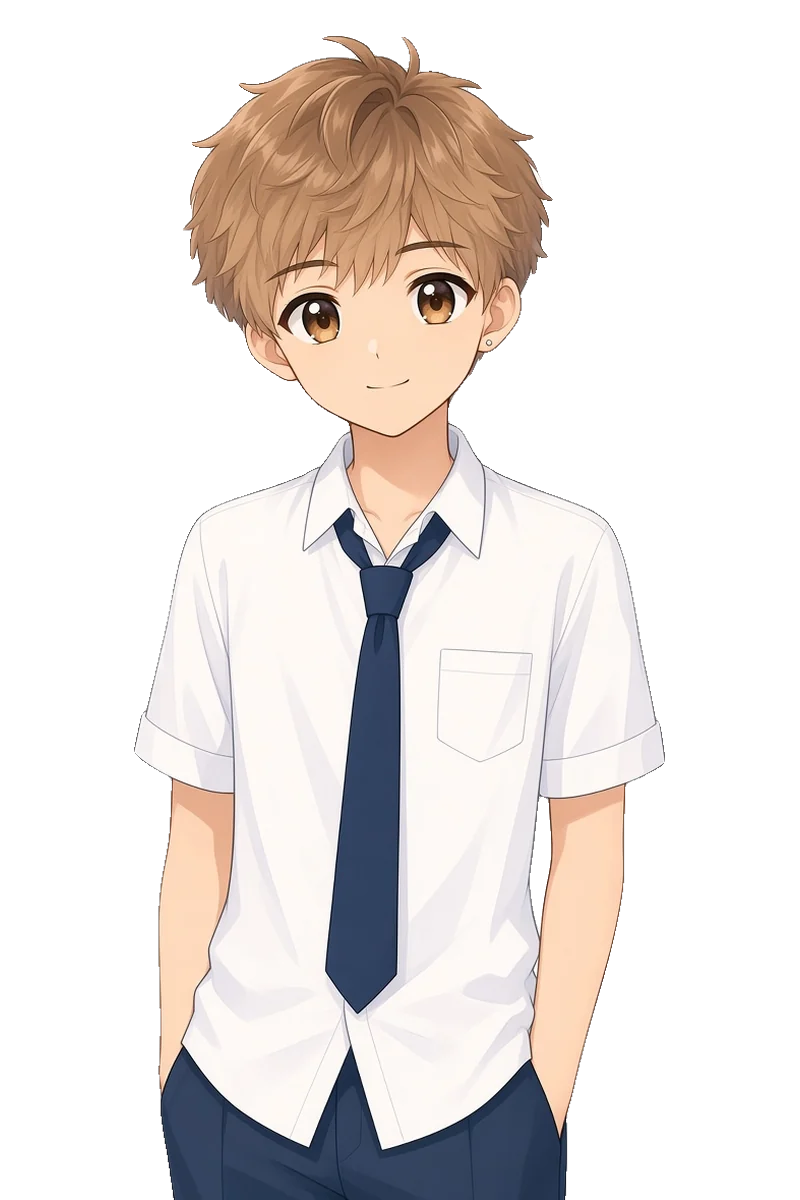
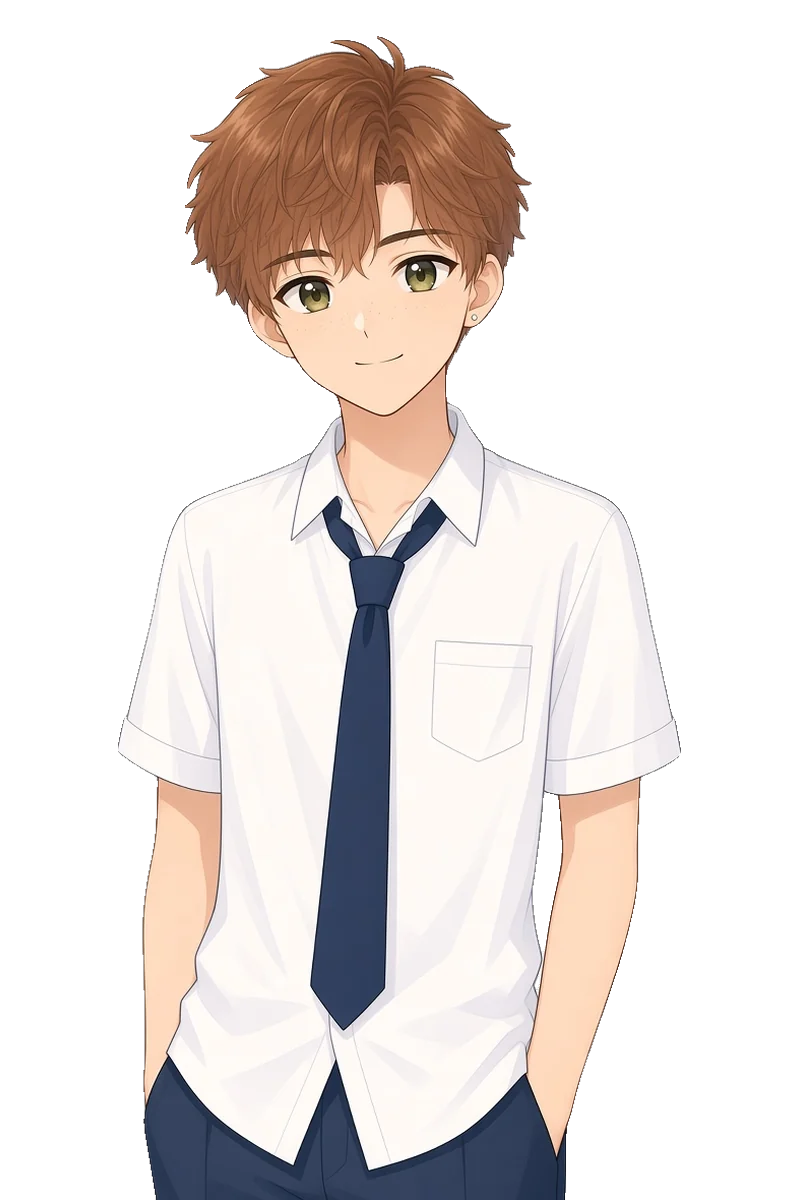
Add international cast supplement (Ava route, Inès, Mateo, Ollie), re-ethnicise Ryan/Sam, v4 sprites + QC sheet

diff --git a/docs/CAST_INTERNATIONAL.md b/docs/CAST_INTERNATIONAL.md
@@ -1,0 +1,394 @@
+# sim4love: International Cast Supplement (v4)
+
+> Supplement to `docs/CAST_BIBLE.md`, using the same entry format and the same systems (radar axes, values-fit,
+> flaw tags, neglect 0–3, 📖 story / 👆 player-choice beats). **Phase 1 = design + art only.** Nothing here is wired
+> into `js/data/cast.js`, `js/chapters/*`, `js/sprites.js` or `tests/` yet; that is Phase 2.
+
+## 0. Why this supplement exists, and the rules it follows
+
+The owner asked for **more characters and plot, international "skins" (Europe, America and beyond), lively and
+different personalities, and different speaking styles, so the cast is not only Singapore-local.**
+
+Rules for this pass:
+
+1. **Additive.** The multiracial Singapore core (Chinese, Malay, Indian, Eurasian, Peranakan, migrant-worker
+   characters) stays exactly as written in `CAST_BIBLE.md`. Singapore is still home; the new cast are people who
+   *live in* Singapore, which is true to the city (around 30% of residents are non-citizens).
+2. **Four new characters** + **two re-ethnicised minor characters** (ids kept, so no save or code breaks).
+3. **Every new character has a distinct English voice**, carried into Chinese through register, sentence rhythm
+   and a few signature words, not through broken grammar or accent jokes.
+4. **Never preach, never mock a culture.** Every cross-cultural beat is a *difference*, not a ranking. Where a
+   Think Deeper card appears it gives at least two reasonable views.
+5. Same content limits as the bible: modest dress, nothing physical beyond a hug, Ch13/Ch18 non-explicit.
+6. Adults are never framed as romantic options for minors. Ollie (26) only appears with the player in public or
+   group settings.
+
+### 0.1 New cast count: why "9 + 15"
+
+| Before | After |
+|---|---|
+| 8 heroines (6 school-era routes, Natalie's late route, Rae's bond track) + 12 others = **20** | **9 heroines** (+ Ava, a full school-era route) + **15 others** (+ Inès, Mateo, Ollie) = **24** |
+
+Ava is the **7th school-era route** (Ch1–Ch8 meet and build, lock at the end of Ch8, Ch9–Ch20 route content and
+endings). Inès, Mateo and Ollie are friend / rival / mentor characters with arcs but no route. Total main cast
+becomes 24; `CAST_BIBLE.md §1` keeps its 20-row table and Phase 2 adds rows 21–24 there with a pointer here.
+
+## 1. The new and changed cast at a glance
+
+| # | id | Name (EN / zh) | From | Age at Ch1 | Role | Heroine | Status |
+|---|---|---|---|---|---|---|---|
+| 21 | `ava` | Ava Mitchell / 艾娃·米切尔 | USA (Austin, Texas) | 16 | Expat transfer student, marine-bio and photography nerd | ✔ route | **new** |
+| 22 | `ines` | Inès Diallo / 伊内丝·迪亚洛 | France (Lyon), Senegalese-Breton family | 17 | Debate rival from the French international school | — | **new** |
+| 23 | `mateo` | Mateo Tan Rojas / 马特奥·陈·罗哈斯 | Colombia (Medellín) + Singapore | 16 | Poly student, futsal friend, later NS buddy | — | **new** |
+| 24 | `ollie` | Ollie Bennett / 奥利·贝内特 | UK (Leeds) | 26 | Sound engineer, CC guitar teacher, open-night host; passion mentor | — | **new** |
+| 19 | `ren` | Ryan Teo / 张瑞安 | Singapore (Chinese SG father, Irish mother) | 16 | Classmate, then NS section mate | — | **re-ethnicised** |
+| 20 | `saki` | Sam (Samantha) de Vries / 萨姆·德弗里斯 | Netherlands → Singapore since age 9 | 19 at Ch17 | Friend of friends, events crew | — | **re-ethnicised** |
+
+**New circle:** `intl` (international-school / expat / mixed-family network). Members: ava, ines, ollie (edge),
+mateo (bridge to `estate` via Haziq's futsal), saki (bridge to `work`). Gossip propagates inside `intl` like other
+circles (§5.5 of the bible).
+
+### 1.1 Voice matrix (so writers never blur them)
+
+| Character | EN register | Signature EN | zh register | Signature zh | Never does |
+|---|---|---|---|---|---|
+| Ava | Fast, warm, American teen; says the quiet part out loud | "Okay, real talk." · "Y'all." · "Lowkey…" · "I'm not gonna lie." | 直接、短句、感叹多 | "说真的。" · "超酷！" · "你们大家" | sarcasm aimed at people |
+| Inès | Precise, argumentative, French-inflected logic | "Bof." · "En fait…" · "Voilà." · "I find that…" | 论证式长句, 爱用"其实/所以", 夹法语 | "Bof，一般吧。" · "En fait，其实……" · "Voilà，就这样。" | raises her voice |
+| Mateo | Loud, affectionate, Spanglish | "¡Hermano!" · "Dios mío." · "¡Qué bueno!" · "Bro, trust." | 热情、叠词、夹西班牙语 | "兄弟！" · "Dios mío，天哪。" · "太好了太好了！" | stays angry overnight |
+| Ollie | Northern English understatement, dry | "Not bad, that." (= brilliant) · "Bit of a nightmare, to be honest." · "Cheers." | 冷幽默、轻描淡写 | "还行吧，这个。"（=很棒）· "说实话，有点头大。" | flirts with students |
+| Sam | Dutch directness, practical, warm | "Ja, no." · "That's not so handy." · "Gezellig!" · "Going Dutch is literally my name." | 直截了当、口头禅短 | "嗯，不。" · "这不太方便。" · "好温馨（gezellig）！" | sugar-coats |
+| Ryan | Singlish-first, quick banter (unchanged) | "Rate lah." · "Chill one." | 口语化新加坡华语 | "安啦。" | — |
+
+Chinese localisation note: the foreign words (*bof, voilà, hermano, gezellig*) stay in Latin script inside the zh
+line, the way bilingual teens actually text. Each first use gets a one-time glossary tooltip.
+
+---
+
+## 2. Heroine #9
+
+### 2.1 Ava Mitchell (`ava`) · heroine, route · **new**
+
+| | |
+|---|---|
+| Names | EN *Ava* / *Ava Mitchell* · zh *艾娃* / *艾娃·米切尔* |
+| Age | 16 at Ch1 (JC1, international-student intake at Bayview JC) |
+| Background | American, from Austin, Texas. Her dad is a semiconductor engineer on a 3-year posting; Singapore is her **4th country** (Texas → Shanghai → Dubai → Singapore). Mum is a remote UX designer. Lives in a condo near the East Coast. Chose a local JC over an international school "because I wanted to actually live here this time". |
+| Role | The bright new kid who befriends everyone in a week; the cross-cultural, long-distance heroine |
+| Personality | Sunny, curious, physically expressive, blunt, brave about new food and new people, secretly avoidant |
+| Passions | Marine biology (wants to study coral restoration) and film photography (a hand-me-down camera from her grandpa) |
+| Values | friends +2, learning +2, career +2, honesty +2, conflict +1 (says it straight), gifts 0, promises +1, spend +1, home −1, family 0 (loves hers, expects independence), lending 0, children 0, childEdu +1 |
+| Flaw tags | `one-foot-out` (Ch5, Ch14) · `blunt-without-context` (Ch2, Ch11) · `allowance-bubble` (Ch4, Ch11) · `fixes-not-listens` (Ch10, Ch16) |
+
+**First impression:** "Loud American. Main-character energy. Treats Singapore like a holiday."
+**Hidden:** her cheerfulness is a practised *new-kid routine*. She has done "first day" four times and learned to
+make friends fast and keep them shallow, because every friendship has ended at an airport. Her old group chats from
+Shanghai and Dubai have quietly gone silent and she has never told anyone it hurts.
+
+**Radar:** INT 65→80 · WRM 75→85 · CMP 45→80 · GEN 40→70 · GNR 55→75 · SEN 30→75 · FIT ?
+
+| Reveal | Trigger |
+|---|---|
+| WRM | 📖 Ch1: she photographs frangipani and gives you the print |
+| SEN | 👆 Ch5 Ubin night walk: ask "which goodbye was the worst?" instead of "which country was best?" |
+| GEN | 👆 Ch4: you explain giving part of your pay to Mum without judging her allowance |
+| CMP | 📖 Ch7: she quietly helps Rae after the screenshot incident |
+| INT | 👆 Ch6: ask about her coral-nursery project at the carnival science booth |
+| FIT | first partner talk (Ch8 dating norms, Ch11 family money) |
+
+**Appearances (all planned):** Ch1 short new scene; Ch2 group date; Ch4 café; Ch5 Ubin; Ch6 Carnival
+(Racial-Harmony booth); Ch7; Ch8 National Day confession; route Ch9–Ch20. Locations: Bayview JC, East Coast
+Park, her condo (Ch12), Uncle Ong's café, Pulau Ubin, Changi Airport (Ch16, Ch20).
+
+**Topics:** cross-cultural dating norms, consent norms, family money (allowance vs supporting parents),
+tipping/spending, long-distance when a family moves, expat-kid loneliness, scams targeting long-distance couples.
+
+#### Route beats
+
+| Arc beat | Ch | Kind | Change |
+|---|---|---|---|
+| New short scene "Frangipani": she's photographing the school's frangipani tree, asks you what it's called in Malay and Chinese (bunga kemboja / 鸡蛋花) | 1 | 📖 | meeting flag `avaMet`; WRM reveal |
+| Group date: "Can I hug you? I'm a hugger, you don't have to be." | 2 | 👆 | consent modelled by **her**; the player may say yes, no, or "high five instead"; all three are ✅ and give Trust +2 |
+| She tells Haziq his food is "kinda weird" without context | 2 | 📖 | flaw `blunt-without-context` |
+| Café: she tips Uncle Ong in cash; he's confused (service charge + GST is already on the bill). She gets **$80/week** allowance and keeps it all; you give part of your pay to Mum | 4 | 📖 + 👆 | **Think Deeper card** "Allowance vs supporting parents": independence-first and family-first both shown as reasonable; `allowance-bubble` flagged |
+| Ubin night: "I've done the new-kid thing four times. I'm really good at the first month." | 5 | 📖 | `one-foot-out` revealed |
+| Carnival Racial Harmony booth: she wants to wear a cheongsam "for fun"; Hanis invites her to try a baju kurung *properly*, and she asks what it means first | 6 | 👆 | appreciation vs costume; she wears only what she's invited to wear; CMP +3 if you introduced her |
+| Perfect Instagram, empty old chats | 7 | 📖 | expat-kid loneliness; SEN path opens |
+| National Day confession. She: "So… are we dating? Like, *dating* dating? Where I'm from you go on dates *before* you decide." | 8 | 👆 | dating-norms talk: "what are we" conversation; **route lock** |
+| Splitting the bill: she wants 50/50 every time, you were raised to "treat" | 9 | 👆 | no wrong answer; agree a system together → Trust +4 |
+| Lucas, an old friend from Dubai, visits and she hugs him at the airport | 10 | 👆 | jealousy lesson: hugs are culture, not signals; ask, don't accuse; `fixes-not-listens` shows when *you* are upset |
+| First fight: "Why do you even give your parents money? They're adults." | 11 | 📖 + 👆 | family-money clash; repair = both explain the *why*, not who's right |
+| Friendsgiving at her condo: she cooks a Texas brisket, you bring Ah Ma's dish | 12 | 📖 | families meet; her dad's "Call me Mike" vs your Mum's "Uncle/Auntie" formality, played warmly |
+| Health class: she compares her US health class (consent unit) with the local CCE programme | 13 | 📖 | consent and sexual-health facts, non-explicit; both systems shown with strengths |
+| Her dad's company moves him to **Seattle** after A-levels; she pulls back | 14 | 📖 | `one-foot-out` peaks: "Easier if we end it now, right?" |
+| You ask her to stay in it, or you let her go kindly | 14 | 👆 | both valid; Trust check feeds Ch14-5 split branch |
+| Dream: marine science at a California university vs staying for NUS | 15 | 👆 | support her dream without making yourself the reason she stays |
+| Long-distance begins: Changi goodbye; 15-hour time difference | 16 | 📖 | LDR mechanic: weekly "call slot" choice |
+| Video-call chapter: missed calls, a time-zone spreadsheet she made | 17 | 👆 | "Ask, don't assume" applied to distance |
+| The long talk (18+, non-explicit): family independence expectations, future country, money | 18 | 👆 | values-fit settles |
+| Fake "cheap flight" scam targeting long-distance couples ($450 for a $1,300 ticket via a Telegram agent) | 19 | 👆 | ScamShield fact card; you check the airline site together on a call |
+| Finale | 20 | — | ending select |
+
+#### Endings
+
+- **`true_ava` "Two Time Zones"** (Trust ≥ 70, values-fit ≥ 60, honest Ch14 talk, Ch19 scam avoided together):
+  she comes back for the NUS exchange semester; final CG at the East Coast frangipani tree with both of you
+  holding the same old camera.
+- **`normal_ava`**: you stay together long-distance, still working out the "what next"; hopeful and open.
+- **`kind_goodbye_ava` "See You Around"**: you part as friends. For the first time in five countries she says a
+  **proper goodbye** instead of fading out; she sends you a print every year. Framed as growth, not loss.
+
+**Neglect sensitivity: 2.** She's used to people drifting; two missed chapters and she starts "pre-leaving"
+(Trust −5, recap: *"Ava's been posting from places you weren't invited to."*).
+
+**Key judgements:** "She thinks she's better than us" (Ch4, unfair; struck by her apology to Uncle Ong) ·
+"She'll leave anyway" (Ch14, partly fair, and the route is about changing it).
+
+#### Speaking style samples
+
+| Moment | EN | zh |
+|---|---|---|
+| Ch1 hello | "Okay, real talk, what's this tree called? It smells like sunscreen and heaven." | "说真的，这棵树叫什么？闻起来像防晒霜加天堂。" |
+| Ch2 hug | "Can I hug you? I'm a hugger. You don't have to be. High fives are also elite." | "我能抱你一下吗？我很爱抱人。你不用勉强哦，击掌也超酷！" |
+| Ch11 fight | "I'm not gonna lie, I don't get it. They're adults. Why do *you* pay for *them*?" | "说真的，我不懂。他们是大人啊，为什么是你给他们钱？" |
+| Ch20 true | "Two time zones, one tree. Lowkey the best plan I've ever been part of." | "两个时区，一棵树。说真的，这是我参与过最棒的计划。" |
+
+#### Visual spec (v4, generated)
+
+Fair skin with light freckles, green eyes, wavy honey-blonde hair in a high ponytail with a mint scrunchie.
+Palette: mint, teal, sunshine yellow, sage.
+
+1. *Uniform* (`ava_uniform_*`): white blouse, teal ribbon, teal/navy plaid skirt, open mint hoodie, film camera.
+2. *Casual* (`ava_casual_*`): yellow tee with a tiny sea-turtle, denim shorts, open white linen overshirt, tote,
+   friendship bracelet.
+3. *Sport* (`ava_sport_*`): mint/white Ultimate jersey #7, mint headband, black shorts, flying disc.
+4. *Occasion* (`ava_occasion_*`): sage wrap midi dress, cream cardigan, hair down over one shoulder, pearl clip,
+   seashell pendant.
+
+Expressions per outfit: neutral, happy, sad, surprised, blush (20 sprites).
+
+---
+
+## 3. The three other new characters
+
+### 3.1 Inès Diallo (`ines`) · debate rival, then friend · **new**
+
+| | |
+|---|---|
+| Names | EN *Inès* / *Inès Diallo* · zh *伊内丝* / *伊内丝·迪亚洛* |
+| Age | 17 at Ch1 (Première at the French international school) |
+| Background | French, from Lyon. Father is Senegalese and Muslim (a hospital doctor on contract in SG), mother is Breton and Catholic (a French teacher). The family celebrates **Tabaski (Eid al-Adha) and Christmas**. Grandparents in Dakar and in Brittany. Second year in Singapore. |
+| Role | Preet's debate rival (Ch6 inter-school booth debate, Ch10-5 final); friend of Haziq through the mosque's youth tuition |
+| Personality | Brilliant, combative, theatrical, funny, generous with notes after she wins, terrible at losing |
+| Values | learning +2, honesty +2, conflict +2 (debates for fun), family +1, friends +1, career +2, spend 0, gifts −1, promises +1, home 0 |
+| Flaw tags | `contrarian` (Ch6) · `cutting-wit` (Ch6, Ch10) · `superior-defence` (Ch10) · `wont-admit-homesick` (Ch12) |
+
+**First impression:** "Arrogant. Thinks Singapore schools are factories."
+**Hidden:** she argues because in most rooms she's been *the only one*: the only Black girl in her Lyon class, the
+only Muslim at Breton Christmas, the only French student in a Singapore tuition centre. Winning the argument is
+armour. She misses her grandparents badly and never says so.
+
+**Radar:** INT 85→90 · WRM 40→70 · CMP 50→75 · GEN 35→65 · GNR 60→75 · SEN 45→70 · FIT —
+
+| Arc beat | Ch | Kind | Change |
+|---|---|---|---|
+| Ch6 booth debate: "En fait, you Singaporeans memorise, we argue." | 6 | 📖 | `contrarian`, `cutting-wit`; Preet beats her on the rebuttal |
+| You call the generalisation out *without* mocking France back | 6 | 👆 | Trust +4; she remembers |
+| Ch8 Think Deeper "No DTR?": in France you're often together without a formal "will you be my girlfriend"; vs the asked-out norm | 8 | 📖 | dating-norms card, balanced |
+| Ch10-5 final, she loses to Preet and apologises for "you memorise" | 10 | 📖 + 👆 | `superior-defence` → growing; rival → friend with Preet |
+| Frank consent talk at the Ch13 peer-education booth: "Silence is not a yes. Voilà." | 13 | 📖 | consent norms delivered by a peer, not a lecture |
+| Ch12 her family's Tabaski lunch then Christmas Eve, same month; she cries on a video call with her Dakar grandmother | 12 | 👆 | mixed-faith family; `wont-admit-homesick` revealed; just sit with her (SEN reveal) |
+| Ch20 she sends Preet her old debate notes before leaving for Sciences Po | 20 | 📖 | epilogue |
+
+**Neglect sensitivity: 1.** **Circles:** intl, school (via debate). **Chapters:** 6, 8, 10, 10-5, 12, 13, 20.
+
+| Moment | EN | zh |
+|---|---|---|
+| Debate | "Bof. I find that your argument is a feeling wearing a tie." | "Bof，我觉得你的论点只是一种穿了领带的情绪。" |
+| Apology | "En fait… I was wrong about you all. It's annoying. Voilà." | "En fait，其实……我之前看错你们了。真烦。Voilà，就这样。" |
+
+**Visual spec (v4):** deep brown skin, coily black high puff, dark brown eyes, gold hoops. Palette: navy, mustard,
+rust, emerald. 1. *Debate* (default): navy blazer, white shirt, grey trousers, mustard headband, index cards.
+2. *Casual*: white linen shirt, rust wide trousers, brown belt, tote with a book, terracotta headband.
+3. *Festive*: emerald boubou-style kaftan with gold embroidery and matching head wrap (Tabaski).
+Expressions: debate = neutral, happy, smug; casual/festive = neutral, happy (7 sprites).
+
+### 3.2 Mateo Tan Rojas (`mateo`) · futsal friend, NS buddy · **new**
+
+| | |
+|---|---|
+| Names | EN *Mateo* / *Mateo Tan Rojas* · zh *马特奥* / *马特奥·陈·罗哈斯* |
+| Age | 16 at Ch1 (Year 1 at a polytechnic, Diploma in Sports and Exercise Sciences) |
+| Background | Colombian mother (a Spanish teacher), Singaporean Chinese father (a ship engineer). Grew up in **Medellín until 15**, moved "back" to a Singapore he'd only visited. Citizen, so he does NS. Catholic; his dad keeps the family ancestor altar. Mandarin weak, Spanish fluent. |
+| Role | Plays futsal with Haziq at the void deck (Ch4, Ch6); enlists with the player and Ryan (Ch16) |
+| Personality | Loud, loving, the first to hug and the first to cry at a film, a great cheerleader, avoids his own pain with jokes |
+| Values | family +2, friends +2, gifts +2, children +1, spend 0, lending +1, home +1, honesty +1, promises 0, conflict −1, learning 0, career 0 |
+| Flaw tags | `over-promises` (Ch6) · `hugs-first-asks-later` (Ch4, learns to ask) · `jokes-past-pain` (Ch12) · `sends-too-much-home` (Ch16) |
+
+**First impression:** "Clown. Probably can't be serious about anything."
+**Hidden:** "Too Latino for Singapore, too Chinese for Medellín." Classmates call him *ang moh* and his
+Medellín cousins call him *el chino*; he laughs at both. His Mandarin shame stops him talking to his Ah Ma.
+
+**Radar:** INT 50→65 · WRM 85→90 · CMP 70→85 · GEN 80→85 · GNR 60→75 · SEN 35→70 · FIT —
+
+| Arc beat | Ch | Kind | Change |
+|---|---|---|---|
+| Hugs the new goalkeeper who flinches | 4 | 👆 | you suggest "ask first, bro"; he does it from then on (`hugs-first-asks-later` → resolved) |
+| Promises to bring the whole team to Preet's carnival booth; 2 show up | 6 | 📖 | `over-promises` |
+| Christmas novena at home **and** offerings at his dad's ancestor altar on the same day | 12 | 📖 | mixed-faith family, played warmly; you're invited to both |
+| Jokes through the story of his dad missing his Medellín graduation | 12 | 👆 | "You don't have to make it funny" → SEN reveal |
+| Sends half his NSF allowance to his abuela | 16 | 👆 | family money from a third angle; budget fact card |
+| Chalet night: doesn't drink, "I'm the designated hermano" | 17 | 📖 | anti-stereotype; helps the player with Sam |
+| His mum receives a Spanish-language "embassy" call (official impersonation scam) | 19 | 👆 | you help her hang up and call the real number; ScamShield fact card |
+| Teaches Ah Ma a Colombian dish, she teaches him the Hokkien for it | 20 | 📖 | epilogue |
+
+**Neglect sensitivity: 2.** **Circles:** estate, ns, intl. **Chapters:** 4, 6, 12, 16, 17, 19, 20.
+
+| Moment | EN | zh |
+|---|---|---|
+| Goal | "¡Hermano! ¡Qué bueno! Did you SEE that?!" | "兄弟！太好了太好了！你看到没有？！" |
+| Learning | "Can I hug you? Asking now. I'm growing, Dios mío." | "我能抱你吗？先问了哦。我在成长，Dios mío，天哪。" |
+
+**Visual spec (v4):** olive-tan skin, dark wavy hair, brown eyes, dimpled grin, silver cross pendant. Palette:
+Colombia yellow, navy, white. 1. *Casual* (default): yellow tee with blue collar, navy shorts, football.
+2. *NS*: olive field uniform, short hair. 3. *Festive*: white guayabera, beige chinos, gift box with red ribbon.
+Expressions: casual = neutral, happy, sad; ns/festive = neutral, happy (7 sprites).
+
+### 3.3 Ollie Bennett (`ollie`) · passion mentor · **new**
+
+| | |
+|---|---|
+| Names | EN *Ollie* / *Ollie Bennett* · zh *奥利* / *奥利·贝内特* |
+| Age | 26 |
+| Background | British, from Leeds. Left a London finance graduate job for sound engineering; came to SG on an events contract. Teaches guitar at the community centre on weekday nights, runs the **Thursday Open Night** (music + art wall) at Uncle Ong's café, and freelances for Sam's events company. Shares a rented room in a Tiong Bahru walk-up. |
+| Role | Mentor for the player's passion (music, art or writing, whichever the player picked). Only ever in public or group settings: the café, the CC class, gigs |
+| Personality | Dry, kind, patient, terrible at asking for anything, quietly excellent |
+| Values | learning +2, career +1 (passion over pay), honesty +1, conflict −2, spend −1, friends +1, gifts 0, promises +2, home 0, family +1 |
+| Flaw tags | `understates-everything` (Ch4) · `cant-ask-for-help` (Ch19) · `jokes-to-avoid-conflict` (Ch14) · `too-polite-to-check` (Ch19) |
+
+**First impression:** "Posh ang moh with a guitar. Probably rich."
+**Hidden:** took a big pay cut, lives in a shared room, eats at the hawker centre every night, and is lonely: his
+long-distance relationship with a girlfriend in Manchester ended last year. He would never mention it.
+
+**Radar:** INT 70→75 · WRM 65→80 · CMP 70→80 · GEN 80→85 · GNR 75→80 · SEN 40→70 · FIT —
+
+| Arc beat | Ch | Kind | Change |
+|---|---|---|---|
+| Ch4 tipping: he explains to Ava why you don't tip at hawker stalls; service charge and GST explained | 4 | 📖 | spending fact card; meeting flag `ollieMet` |
+| "Not bad, that." = the highest praise you'll ever get | 4, 10 | 📖 | the player learns to read understatement |
+| Tells Ava about his own long-distance break-up, briefly and kindly | 14 (Ava route) | 📖 | LDR realism, not doom |
+| Nearly pays a **$2,000 deposit** for a fake condo listing; too polite to ask for a viewing | 19 | 👆 | you and Rae spot the signs and help him report it; `cant-ask-for-help` → growing |
+| Open mic with Sam: gives the player the slot | 20 | 👆 (earlier help) | passion epilogue |
+
+**Neglect sensitivity: 0.** **Circles:** work, intl. **Chapters:** 4, 10, 14, 19, 20 (Thursday Open Night as
+a repeatable free-time spot from Ch4).
+
+| Moment | EN | zh |
+|---|---|---|
+| Praise | "Not bad, that. Not bad at all." | "还行吧，这个。真的还行。" |
+| Scam | "Bit of a nightmare, to be honest. I'd already sent the deposit… nearly." | "说实话，有点头大。我差一点就把押金转过去了。" |
+
+**Visual spec (v4):** fair rosy skin, freckles, messy sandy-brown hair, blue-grey eyes, clean-shaven. Palette:
+denim, grey, navy, sage. 1. *Open mic* (default): open denim shirt over grey tee, guitar on his back, pencil behind
+the ear. 2. *Teaching*: navy polo, blank lanyard, khakis, folder and capo. 3. *Weekend*: sage leaf-print shirt,
+cream shorts, bucket hat in hand, iced tea. Expressions: openmic = neutral, happy, sad; teaching = neutral, happy;
+weekend = neutral, sad (7 sprites).
+
+---
+
+## 4. Re-ethnicised characters (ids unchanged)
+
+Both changes replace the corresponding background/name rows of `CAST_BIBLE.md §4.11–4.12` in Phase 2. **All flaw
+tags, arc beats, topics and chapter appearances stay the same**; none of their flaws are tied to ethnicity.
+
+### 4.1 Ryan Teo (`ren`): now Chinese-Singaporean / Irish
+
+| Field | Before | After |
+|---|---|---|
+| Background | Chinese Singaporean; divorced parents; lives with his dad | Chinese Singaporean father, **Irish mother who moved back to Cork after the divorce**. Citizen, does NS. Lives with his dad. |
+| Names | Ryan Teo / 张瑞安 | unchanged |
+| New angle | — | A **long-distance parent**: Ch16 his mum's birthday call he skips; Ch19 he finally calls her before the debt talk. Mirrors Ava's LDR theme from the child's side. |
+| Voice | Singlish banter | unchanged; with his mum he switches to "Grand, Mam, yeah" (zh: "挺好的，妈。"), which the player overhears once |
+
+**Visual (v4 redraw):** fair skin with faint freckles, wavy chestnut-auburn hair, hazel-green eyes, ear stud.
+Same outfits: *uniform* (white shirt, loose navy tie), *ns* (olive field uniform), *street* (beige bomber, black
+tee, chain, olive cargo). Expressions: uniform = neutral, sad, smug; ns = neutral, sad; street = neutral, smug.
+
+### 4.2 Sam (`saki`): now Sam (Samantha) de Vries, Dutch
+
+| Field | Before | After |
+|---|---|---|
+| Names | Sam Wong / 萨姆·黄 | **Sam (Samantha) de Vries / 萨姆·德弗里斯** |
+| Background | Chinese Singaporean poly graduate | Dutch, moved to SG at 9 (dad in port logistics), **Singapore PR**, poly graduate, junior stage manager. Thinks of herself as "Singaporean with a Dutch passport". |
+| Voice | Organised, warm | Dutch directness: "Ja, no." · "That's not so handy." · "Gezellig!" · "Going Dutch is literally my name." zh: 直截了当, "嗯，不。" |
+| Arc | Ch17 chalet / Ch19 gig / Ch20 open mic | unchanged. Writers' note: the Ch17 drink incident must never be framed as "Europeans drink more"; it stays about peer pressure from seniors, exactly as in the bible |
+| New link | — | Works with Ollie (Ch19–20); splits every bill and teaches Ava's Ch9 bill system a name |
+
+**Visual (v4 redraw):** straight blonde chin-length bob, blue-grey eyes, fair skin. Same outfits: *chalet*
+(mustard tee, denim shorts), *crew* (blacks, headset, gaffer tape), *occasion* (black top and trousers).
+Expressions: chalet = neutral, happy, sad; crew = neutral, happy; occasion = neutral, happy.
+
+**Legacy files:** the old flat sprites `assets/chars/ren_neutral.webp`, `ren_sad.webp`, `saki_neutral.webp`,
+`saki_sad.webp` are untouched in Phase 1 (code may still reference them). Phase 2 should repoint references to the
+outfit sprites and then delete them.
+
+---
+
+## 5. Plot-integration plan (Phase 2 writing brief)
+
+### 5.1 New short scenes
+
+| Scene id | Ch | Where | Cast | Purpose | Length |
+|---|---|---|---|---|---|
+| `1-ava-frangipani` | 1 | school courtyard | ava | meet Ava; names of the tree in three languages | 8–12 lines |
+| `4-thursday-open-night` | 4 | Uncle Ong's café | ollie, ava, ogawa | tipping / service charge / allowance card | 20 lines |
+| `4-voiddeck-futsal` | 4 | void deck | mateo, kenta | meet Mateo; "ask before hugging" beat | 12 lines |
+| `6-debate-booth` | 6 | carnival | ines, preet | rivalry; the "you memorise" line | 18 lines |
+| `6-harmony-booth` | 6 | carnival | ava, hina | appreciation vs costume | 12 lines |
+| `8-think-deeper-dtr` | 8 | card | ines, ava | dating-norms card | card |
+| `10-5-debate-final` | 10-5 | auditorium | ines, preet | apology, rival → friend | 16 lines |
+| `12-two-feasts` | 12 | Diallo flat / Tan Rojas home | ines, mateo | mixed-faith families, two short vignettes | 2 × 10 lines |
+| `16-allowance-home` | 16 | NS bunk | mateo, ren | sending money home; Ryan's skipped call | 12 lines |
+| `19-deposit-scam` | 19 | café | ollie, rei | rental-deposit scam | 18 lines |
+| `19-embassy-call` | 19 | Mateo's home | mateo, his mum | Spanish-language official-impersonation scam | 12 lines |
+| `20-open-mic` | 20 | café | ollie, saki | passion epilogue | 14 lines |
+
+### 5.2 Topic coverage
+
+| Topic | Carriers | Ch |
+|---|---|---|
+| Cross-cultural dating norms | Ava, Inès | 8, 9 |
+| Family money: allowance vs supporting parents | Ava, Mateo, player | 4, 11, 16 |
+| Tipping and spending | Ollie, Ava | 4 |
+| Long-distance when a family moves | Ava, Ryan, Ollie | 14–17 |
+| Consent norms | Ava (asks first), Mateo (learns to), Inès (peer talk) | 2, 4, 13 |
+| Mixed-faith families | Inès, Mateo | 12 |
+| Expat-kid loneliness | Ava, Inès | 5, 7, 12 |
+| Scams targeting foreigners / LDR couples | Ollie, Mateo's mum, Ava | 19 |
+
+### 5.3 Engine notes for Phase 2
+
+- `cast.js`: add `ava` (heroine: true, route: true, neglect 2), `ines` (1), `mateo` (2), `ollie` (0); add circle
+  `intl`; update `ren`/`saki` names and backgrounds.
+- Route list gains `ava`; endings `true_ava`, `normal_ava`, `kind_goodbye_ava`. Route lock at the end of Ch8 is
+  unchanged.
+- `sprites.js`: register the outfit/expression sets listed in §6.
+- Tests: heroine count 8 → 9; every route has three endings; every `ava` route chapter has a scene; every sprite
+  file referenced exists.
+
+## 6. Art (v4 pass): file list and QC
+
+Pipeline (same as v3): GenerateImage (neutral first, then expression variants using the neutral as reference) →
+rembg `isnet-anime` cutout → bottom-centred on 800×1200 transparent canvas → `assets/chars/<id>_<outfit>_<expr>.webp`.
+QC contact sheet: `docs/art-contact-sheet-intl.jpg` (55 sprites, all passed; Inès's first *smug* was too close to
+neutral and was regenerated).
+
+| id | Outfits | Expressions | Count |
+|---|---|---|---|
+| ava | uniform, casual, sport, occasion | neutral, happy, sad, surprised, blush (each) | 20 |
+| ines | debate*, casual, festive | debate: neutral/happy/smug; others: neutral/happy | 7 |
+| mateo | casual*, ns, festive | casual: neutral/happy/sad; others: neutral/happy | 7 |
+| ollie | openmic*, teaching, weekend | openmic: neutral/happy/sad; teaching: neutral/happy; weekend: neutral/sad | 7 |
+| ren (redraw) | uniform*, ns, street | uniform: neutral/sad/smug; ns: neutral/sad; street: neutral/smug | 7 |
+| saki (redraw) | chalet*, crew, occasion | chalet: neutral/happy/sad; crew: neutral/happy; occasion: neutral/happy | 7 |
+
+\* default outfit. Total: 55 sprites (41 new + 14 replaced).
